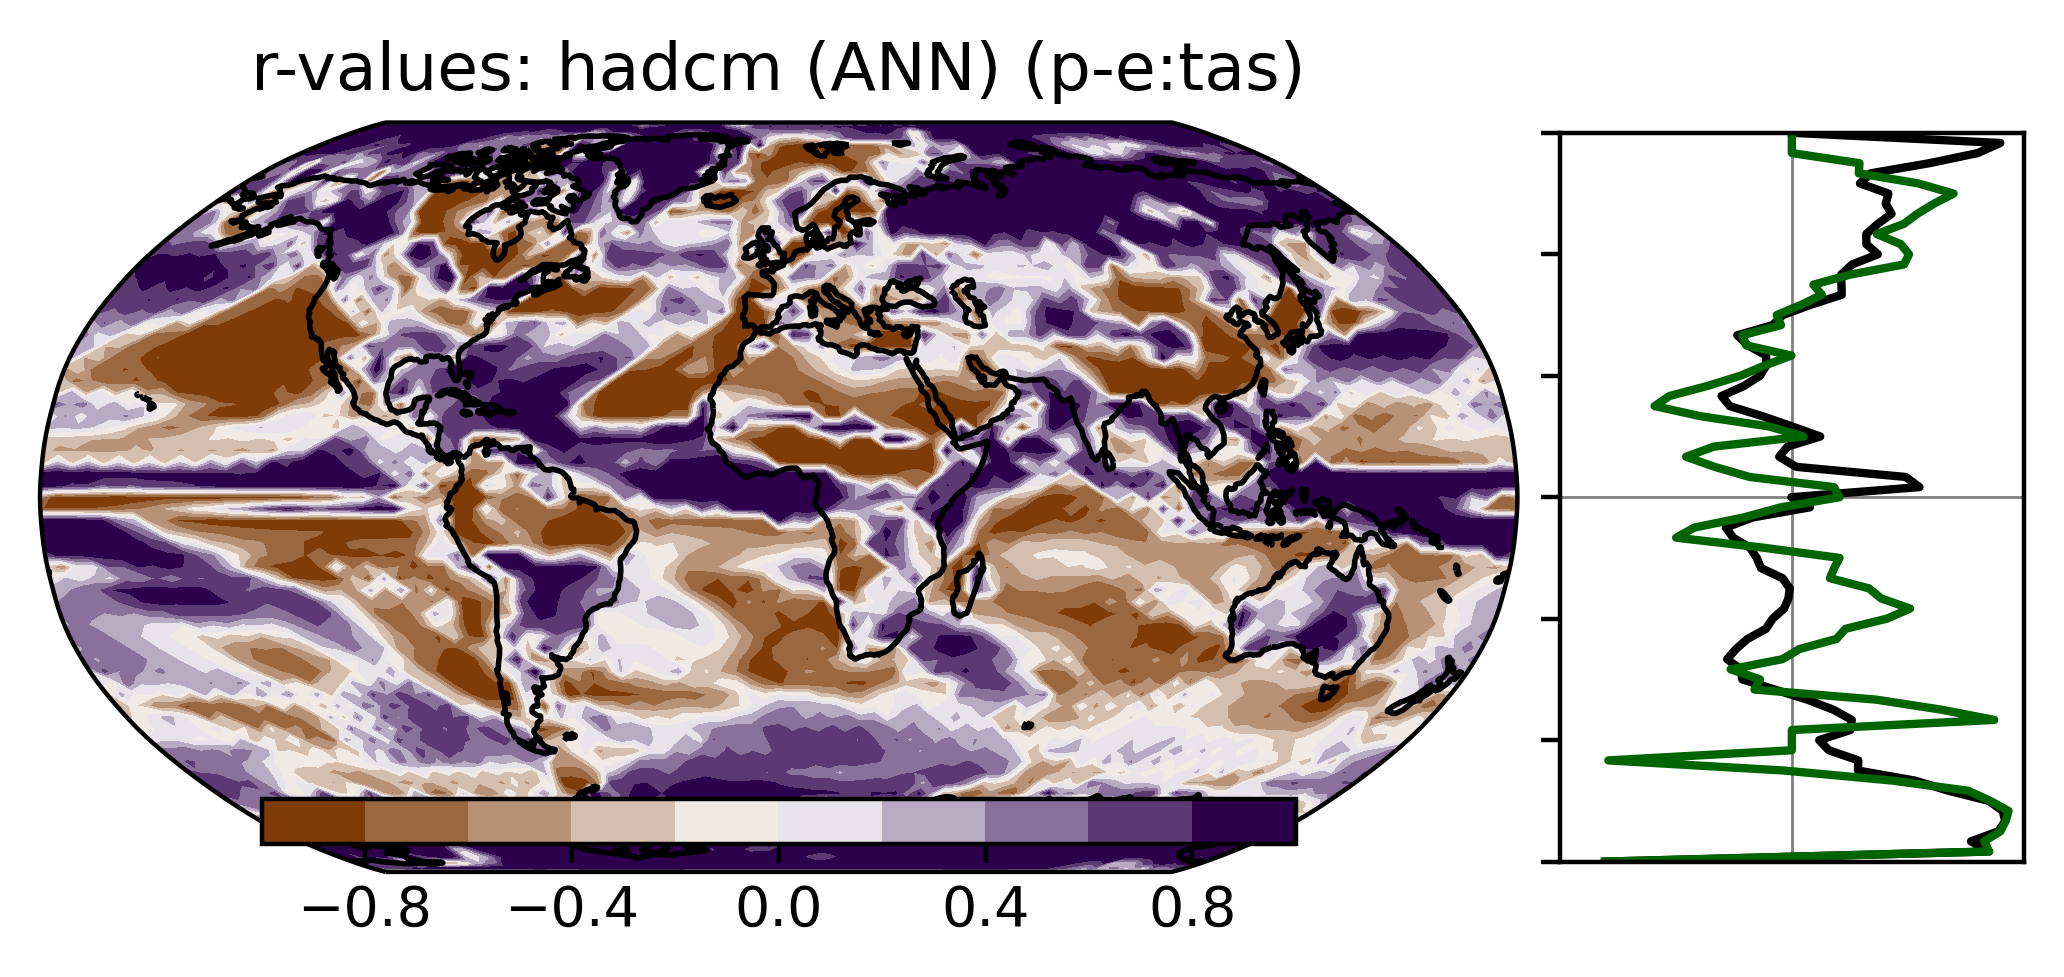
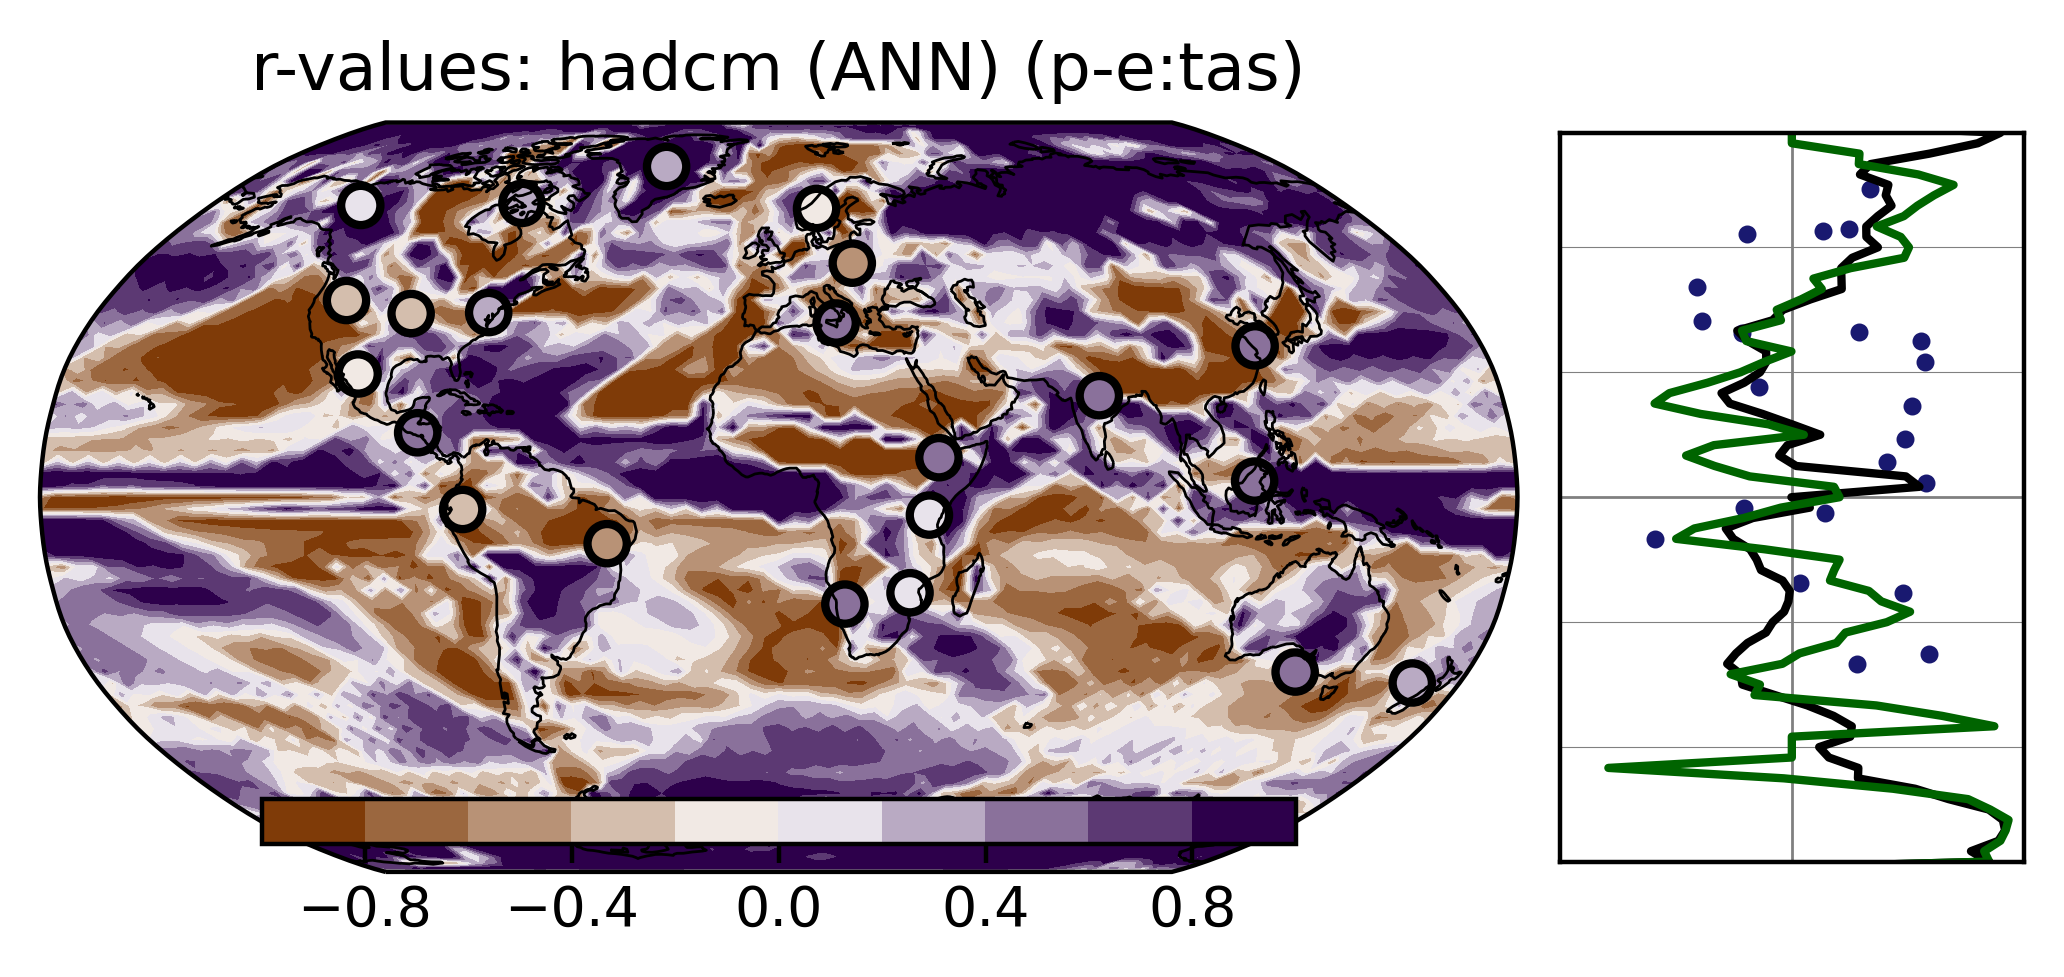
commit

diff --git a/Scripts/python/correlation_transient.py b/Scripts/python/correlation_transient.py
@@ -1,6 +1,6 @@
 #%% 1 Load Packages
 import numpy      as np
-#import pandas     as pd
+import pandas     as pd
 import regionmask as rm
 import xarray     as xr
 #from scipy        import stats
@@ -11,6 +11,8 @@ import matplotlib.gridspec as gridspec
 from   mpl_toolkits.axes_grid1.inset_locator import inset_axes
 import cartopy.crs as ccrs              # Packages for mapping in python
 import cartopy.util as cutil
+import cartopy.feature as cfeature
+
 dataDir = '/Volumes/GoogleDrive/My Drive/zResearch/Manuscript/HoloceneHydroclimate/HoloceneHydroclimate/'
 #%% 
 def calcCorrelation (inData,model1,model2,var1,var2,season,t0=0,t1=12,mask=False):
@@ -38,8 +40,8 @@ times = [0,12]
 szn = 'ANN'
 v_1 = 'p-e'
 v_2 = 'tas'
-m_1 = 'trace'
-m_2 = 'trace'
+m_1 = 'hadcm'
+m_2 = 'hadcm'
 #import seaborn as sns
 #sns.palplot(sns.color_palette("BrBG", 7))
 from matplotlib.colors import LinearSegmentedColormap
@@ -67,25 +69,30 @@ else:
     lats,lons = modelData[m_1][szn]['lat_regrid'],modelData[m_1][szn]['lon_regrid']
     name = 'multi'+'_'+v_1+'_'+v_2+'_'+szn
 
-proxy=i#NEED TO CHANGE
+proxy= pd.read_csv(dataDir+'Data/'+'HC_T_RegionalProxyEnsCorrelations.csv')
 refReg = rm.defined_regions.ar6.all
     #Calculate Proxy Percents for regions
-pRegs, pVals, plats, plons, = [],[],[],[]
-for reg in np.unique(proxy['ipccReg']): 
-    #pVals.append(100*(sum(regData>0)/(sum(np.isnan(regData)==False)+sum(regData==0))))#NEED TO CHANGE
-    plats.append(refReg.centroids[refReg.abbrevs.index(reg)][1])
-    plons.append(refReg.centroids[refReg.abbrevs.index(reg)][0])
-    pRegs.append(reg)
+pltRegs, pltVals, pltlats, pltlons, = [],[],[],[]
+for reg in proxy.columns.values.tolist()[1:]: 
+    pltVals.append(np.nanmean(proxy[reg]))
+    pltlats.append(refReg.centroids[refReg.abbrevs.index(reg)][1])
+    pltlons.append(refReg.centroids[refReg.abbrevs.index(reg)][0])
+    pltRegs.append(reg) 
     #
 plt.style.use('default')
 gs = gridspec.GridSpec(12,8)
 ax = plt.subplot(gs[0:12,0:6],projection=ccrs.Robinson()) 
+#ax1 = refReg[pltRegs].plot(projection=ccrs.Robinson(),add_label=False,line_kws=dict(linewidth=1))
+#ax.ax1
 plt.title('r-values: '+m_1+' ('+szn+') ('+v_1+':'+v_2+')')
 ax.set_global()
-ax.coastlines()
+ax.coastlines(lw=0.5)
 data_cyclic,lon_cyclic = cutil.add_cyclic_point(rVals,coord=lons)
 model_contour = plt.contourf(lon_cyclic,lats, data_cyclic,transform=ccrs.PlateCarree(),
                              levels=mlevels,cmap=cramp) 
+ax.scatter(pltlons,pltlats,c=pltVals,transform=ccrs.PlateCarree(),
+           cmap=cramp,alpha=1,vmin=-1,vmax=1,s=50,ec='k',lw=1.5)#plt.cm.get_cmap('BrBG',5),
+
 cm = plt.cm.get_cmap(cramp,10)
 plt.colorbar(model_contour,cax=inset_axes(ax,width='70%',height="6%",loc=8),orientation="horizontal")
 
@@ -99,17 +106,20 @@ for lat in range(len(lats)):
         if mask[lat,lon]: rValsLand[lat,lon] = rVals[lat,lon]
               
 ax1.axvline(x=0,color='grey',lw=0.5)
+for i in range(-90,91,30):
+    ax1.axhline(y=i,color='grey',lw=0.2)
 ax1.axhline(y=0,color='grey',lw=0.5)
-ax1.axis([mlevels[0],mlevels[-1],min(lats),max(lats)])
+ax1.axis([mlevels[0],mlevels[-1],lats[-2],lats[1]])
 
 ax1.plot(np.nanmean(rVals, axis=1) ,lats,c='k',lw=1.5)
+ax1.scatter(pltVals,pltlats,c='midnightblue',s=5)#plt.cm.get_cmap('BrBG',5),
 
 x = np.nanmean(rValsLand, axis=1) 
 x[np.isnan(x)] = 0
 ax1.plot(x,lats,c='darkgreen',lw=1.5)
 
 ax1.set_xticks([])
-ax1.set_yticks(range(-90,91,30))
+ax1.set_yticks([])
 ax1.set_yticklabels([])
 if save: plt.savefig(dataDir+'Figures/Model/TransientCorrelations/'+name+'.png',
                      dpi=400,format='png',bbox_inches='tight')       
